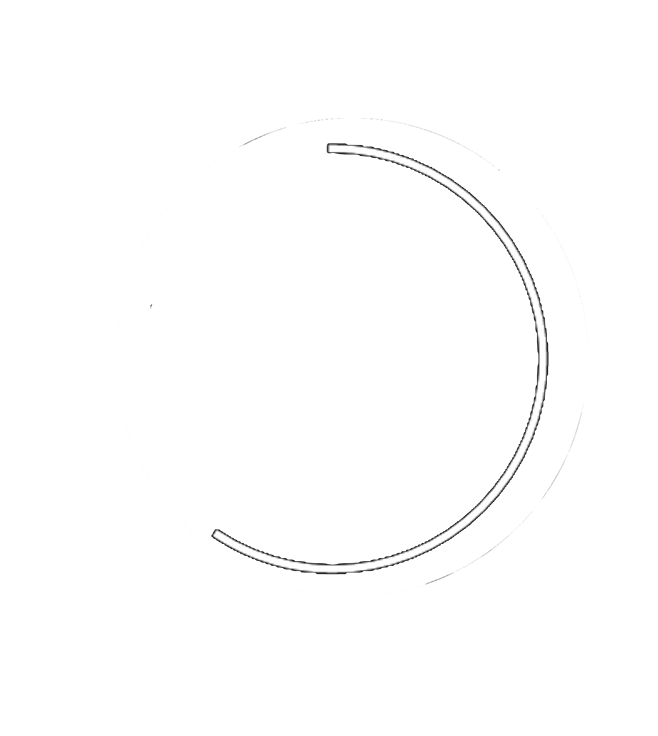
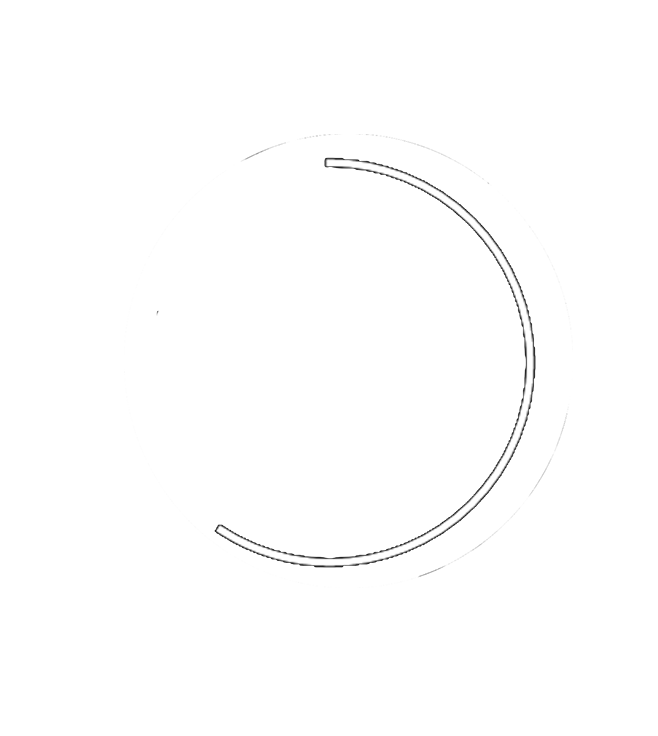
temporary progress face animation

Changed region(s): [[0.304, 0.1875, 0.8511, 0.7812], [0.3647, 0.1875, 0.3951, 0.2188]]

diff --git a/resources/views/welcome.blade.php b/resources/views/welcome.blade.php
@@ -221,7 +221,17 @@
                         </div>
                         <img src="/images/watch.png" class="featureImg img-fluid" alt="Responsive image">
                     </div>
-                    <img id="progressImg" src="/images/progressImg.png" class="featureImg img-fluid" alt="Responsive image">
+                    <div id="progressImg" class="text-center">
+                        <div class="whiteText transform-center">
+                            <span id="progressAnimatedTextTop" class="featureAnimatedTextSmall w3-animate-right">01/01/2018</span><br>
+                            <span id="progressAnimatedTextMiddle" class="featureAnimatedText w3-animate-right">Eat Healthy</span><br>
+                            <span id="progressAnimatedTextBottom" class="featureAnimatedTextSmall w3-animate-right">31/12/2018</span><br>
+                        </div>
+                        <div class="transform-center full-width">
+                            <img id="progressImgPie" src="/images/progressImgPie.png" class="featureImg img-fluid" alt="Responsive image">
+                        </div>
+                        <img src="/images/watch.png" class="featureImg img-fluid" alt="Responsive image">
+                    </div>
                     <div id="timeImg">
                         <div class="whiteText transform-center">
                             <span id="timeText" class="featureAnimatedText w3-animate-right">00:00:00</span>
@@ -965,6 +975,51 @@ function textChangeFunction() {
 
 <!-- Features JS for Progress -->
 <script type="text/javascript">
+
+    var progress = true;
+    var progressInterval = null;
+
+    $(document).ready(function(){
+
+        $(".featureButtonLink").mouseover(function(){
+
+            // Clear timer
+            clearInterval(progressInterval);
+
+            if (this.id == "progressBtn" || this.id == "progressBtnMobile") {
+
+                // Hide stop image + text, Show timer start 
+                $("#progressImgPie").hide();
+                $("#progressAnimatedTextTop").show();
+                $("#progressAnimatedTextMiddle").show();
+                $("#progressAnimatedTextBottom").show();
+
+                setTimeout(function () {
+                    
+                    $("#progressAnimatedTextTop").fadeOut(400);
+                    $("#progressAnimatedTextMiddle").fadeOut(400);
+                    $("#progressAnimatedTextBottom").fadeOut(400);
+                    $("#progressImgPie").fadeIn(400);
+
+                    // progressInterval = setInterval(function () {
+                    //     if (progress) {
+                    //         $("#progressImgPie").fadeOut(400);
+                    //         $("#progressAnimatedTextTop").fadeIn(400);
+                    //         $("#progressAnimatedTextMiddle").fadeIn(400);
+                    //         $("#progressAnimatedTextBottom").fadeIn(400);
+                    //     } else {
+                    //         $("#progressAnimatedTextCalendar").fadeOut(400);
+                    //         $("#progressAnimatedTextDaily").fadeIn(400);
+                    //     }
+                    //     progress=!progress;
+                    // }, 3000);
+
+                }, 1000);
+
+            }
+
+        });
+    });
     
 </script>
 
